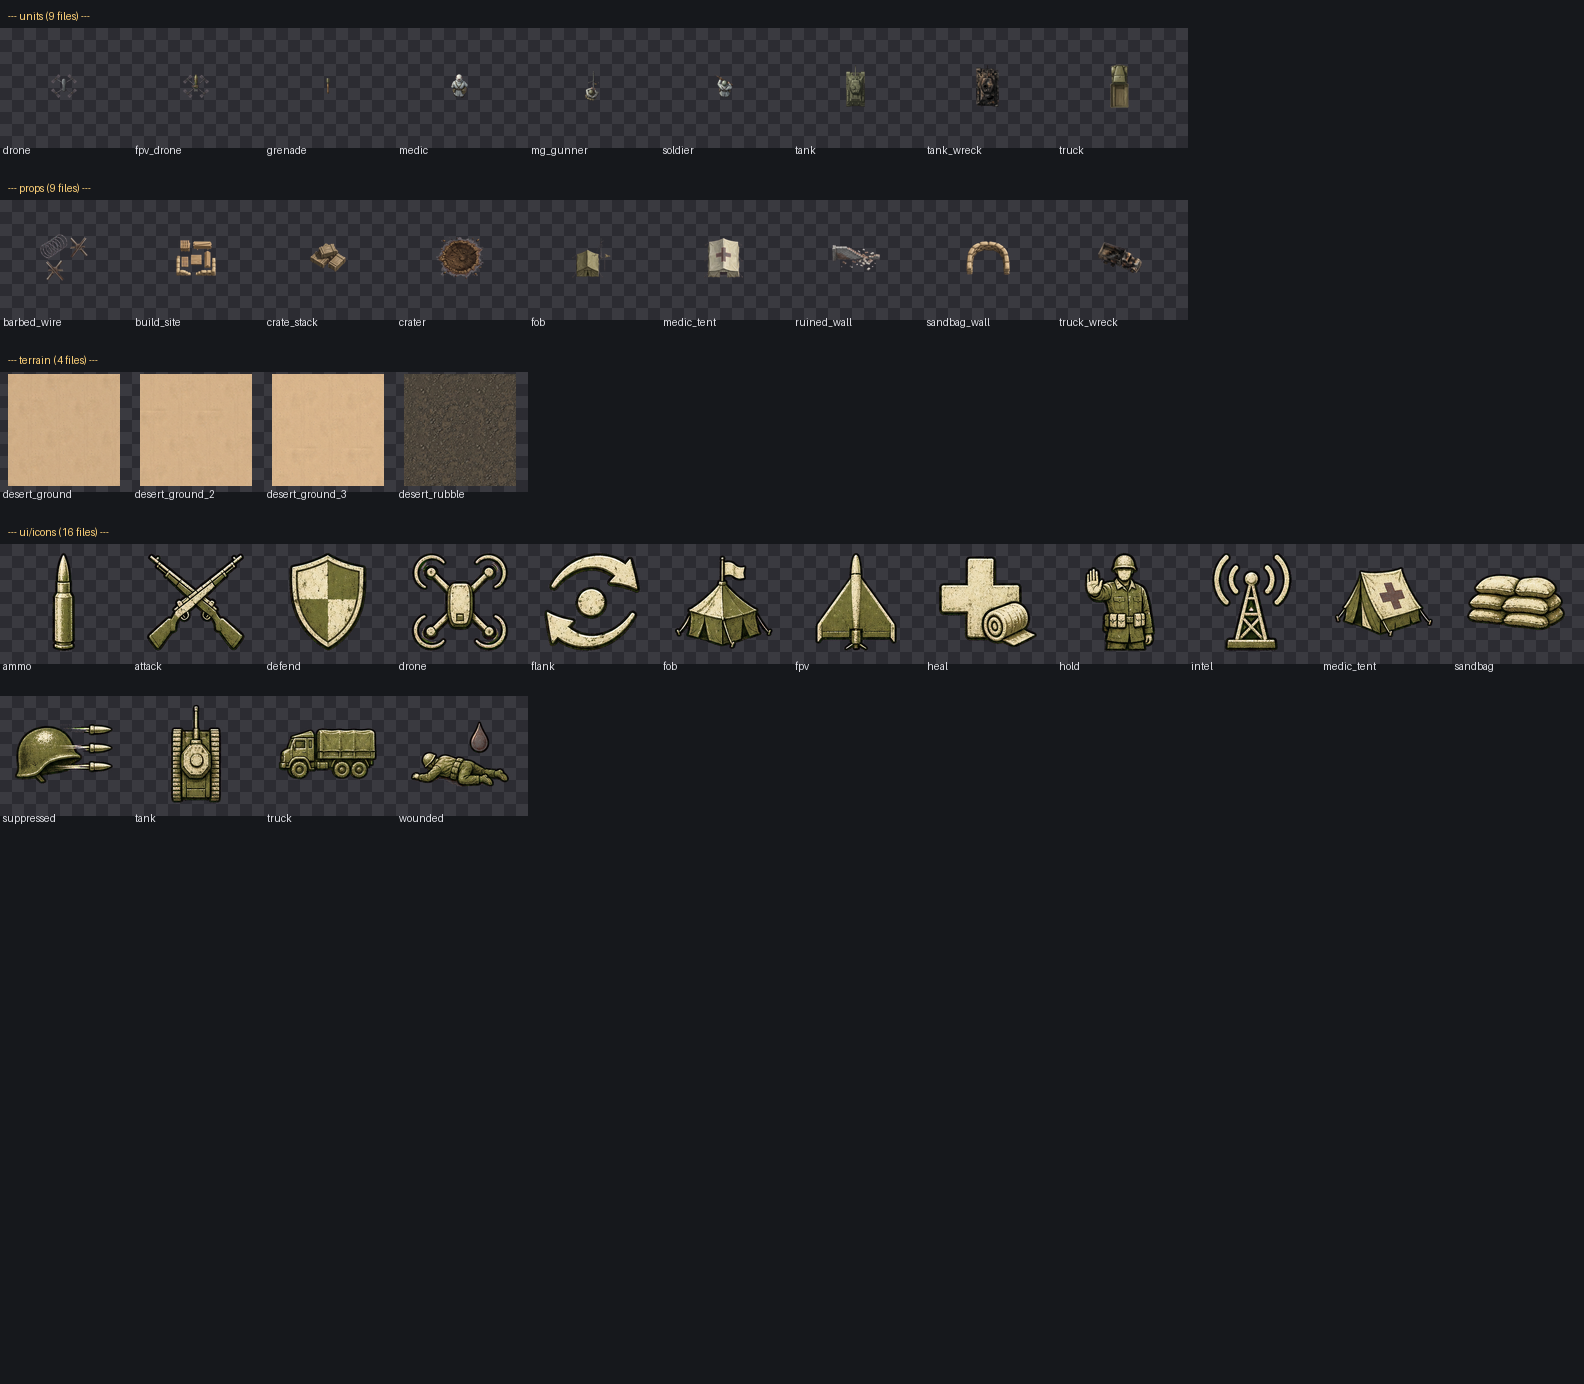
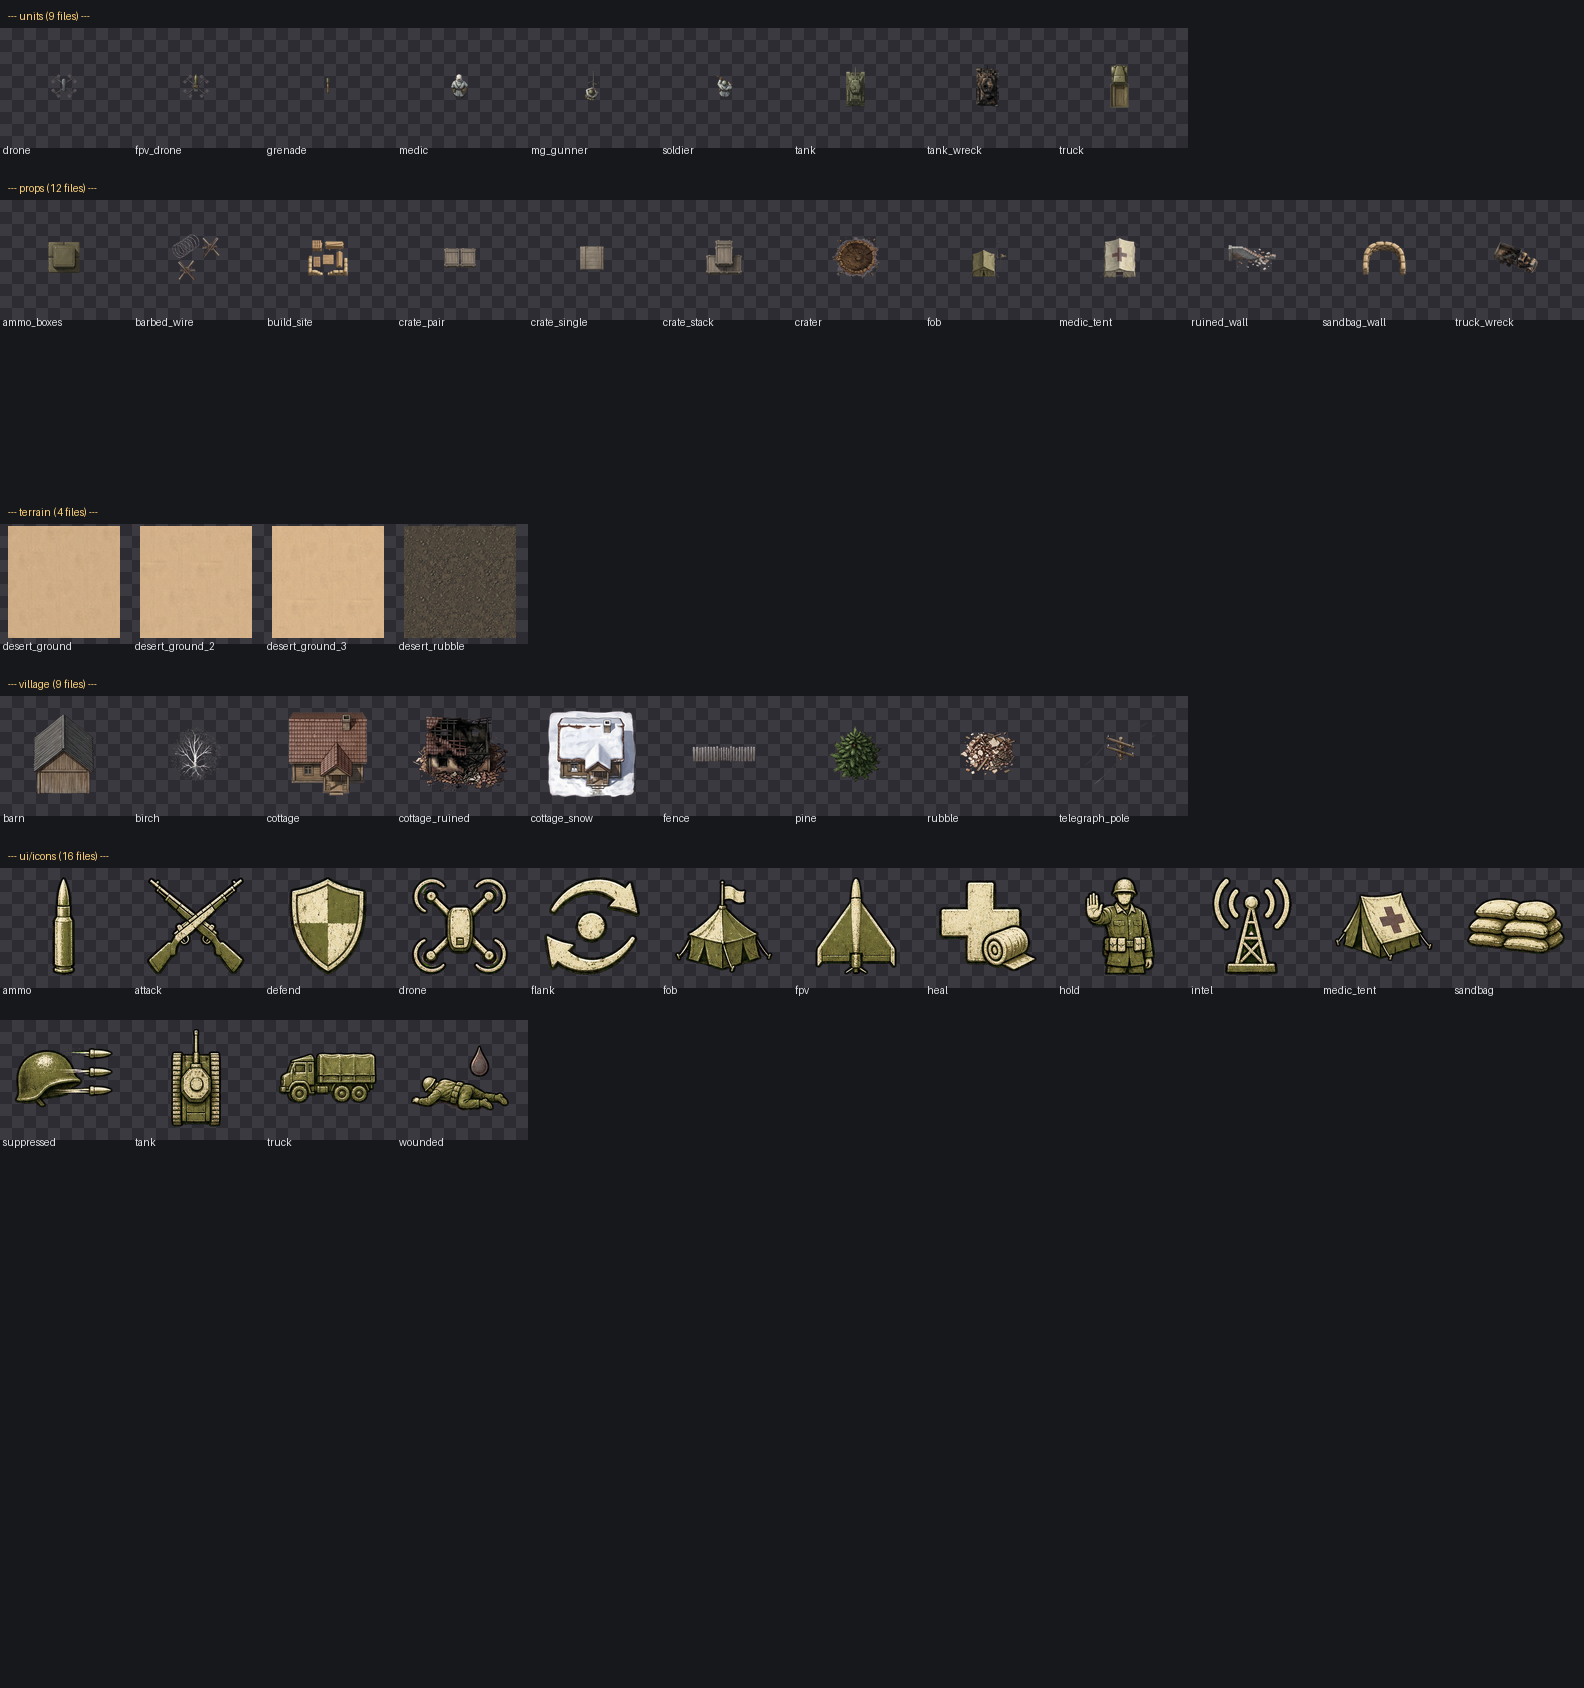
素材 M5：村落与植被 + 木箱重出 + 弹药箱
补齐预告片里最显眼的一块缺口（村落建筑），并修掉上一版木箱上的红划痕：

- assets/village/（9 件，含 _hd/ 原图）：
  cottage_snow（积雪红顶木屋）/ cottage（无雪）/ cottage_ruined（烧毁坍塌）/
  barn（木板谷仓）/ fence（带小门的栅栏段）/ rubble（建筑废墟堆）/
  birch（白桦）/ pine（松树）/ telegraph_pole（电线杆，含细电线）。
  建筑 80~96px、树木 52~56px——比一格（32px）大得多，是地图装饰而非格子障碍，
  尺寸按「视觉合理」出，未强行塞进一格。
- assets/props/：crate_stack 重出（旧版带红划痕），新增 crate_pair / crate_single /
  ammo_boxes。木箱与弹药箱按格子尺度出（24~36px）。
- tools/promote_assets.py：新增 13 条出图规则；
  tools/make_previews.py：验收图按**实际宽度自适应换行**（建筑比一格宽得多，
  原来「一格摆一个」会互相压住），并新增 VILLAGE / CRATES 两段。
- 生成源与拆图中间产物：sheets/{village_v1,crates_v1}.png、derived/{village_v1,crates_v1}/。
  拆图残留洋红实测 0.00%（check_village_crates.png 里逐张标注）。

Changed region(s): [[0.0, 0.3418, 1.0, 0.6835], [0.0, 0.0311, 1.0, 0.3107], [0.0, 0.0, 0.0619, 0.0311]]

diff --git a/assets/_source/tools/make_previews.py b/assets/_source/tools/make_previews.py
@@ -40,6 +40,25 @@ PROPS_SCALE_ROW = [
     ("props/barbed_wire.png", "barbed_wire"),
 ]
 
+VILLAGE_SCALE_ROW = [
+    ("village/cottage_snow.png", "cottage_snow"),
+    ("village/cottage.png", "cottage"),
+    ("village/cottage_ruined.png", "cottage_ruined"),
+    ("village/barn.png", "barn"),
+    ("village/fence.png", "fence"),
+    ("village/rubble.png", "rubble"),
+    ("village/birch.png", "birch"),
+    ("village/pine.png", "pine"),
+    ("village/telegraph_pole.png", "telegraph_pole"),
+]
+
+EXTRA_SCALE_ROW = [
+    ("props/crate_stack.png", "crate_stack"),
+    ("props/crate_pair.png", "crate_pair"),
+    ("props/crate_single.png", "crate_single"),
+    ("props/ammo_boxes.png", "ammo_boxes"),
+]
+
 
 def tiled(tile_path: str, w: int, h: int) -> Image.Image:
     tile = Image.open(tile_path).convert("RGBA")
@@ -50,27 +69,61 @@ def tiled(tile_path: str, w: int, h: int) -> Image.Image:
     return out
 
 
-def scale_check(theme: str, ground: str, rows: list[tuple[str, str]], path: str) -> None:
+def scale_check(theme: str, ground: str, sections: list[tuple[str, list]], path: str) -> None:
+    """把每个分类的单位/道具按游戏 1:1 尺度贴在地形上，整幅放大 4 倍显示。
+
+    建筑 88~96 px、树木 56 px，都比一格（32 px）大得多，所以这里按**实际宽度自适应换行**，
+    而不是一格摆一个——否则预览图上会互相压在一起。
+    """
     zoom = 4
-    cell = 32 * zoom  # 一格 = 32 px，放大 4 倍
     pad = 24
-    width = cell * 9 + pad * 2
-    height = pad * 2 + (cell + 26) * 2 + 60
+    max_w = 1600
+
+    # 先量好每件东西的显示尺寸，再逐行排布
+    plan: list[tuple[str, list[tuple[str, str, tuple[int, int]]], list[list]]] = []
+    for label, items in sections:
+        sized = []
+        for rel, name in items:
+            img = Image.open(os.path.join(ASSETS, rel))
+            sized.append((rel, name, (img.width * zoom, img.height * zoom)))
+        lines: list[list] = []
+        line: list = []
+        line_w = 0
+        for item in sized:
+            w = item[2][0] + 28
+            if line and line_w + w > max_w - pad * 2:
+                lines.append(line)
+                line, line_w = [], 0
+            line.append(item)
+            line_w += w
+        if line:
+            lines.append(line)
+        plan.append((label, sized, lines))
+
+    width = max_w
+    height = pad * 2
+    for label, _sized, lines in plan:
+        height += 30
+        for line in lines:
+            height += max(i[2][1] for i in line) + 26
     canvas = tiled(os.path.join(ASSETS, ground), width, height).convert("RGB")
     canvas = Image.blend(canvas, Image.new("RGB", canvas.size, (10, 12, 16)), 0.25)
     draw = ImageDraw.Draw(canvas)
 
-    y = pad + 46
-    for label, items in (("UNITS (game scale 1:1, shown at 4x)", rows[0]), ("PROPS (game scale 1:1, shown at 4x)", rows[1])):
-        draw.text((pad, y - 34), f"{label}   theme={theme}   cell=32px @ {zoom}x", fill=(255, 232, 150))
-        x = pad + (cell - 32) // 2
-        for rel, name in items:
-            img = Image.open(os.path.join(ASSETS, rel)).convert("RGBA")
-            big = img.resize((img.width * zoom, img.height * zoom), Image.LANCZOS)
-            canvas.paste(big, (x + (64 - big.width) // 2, y + (cell - big.height) // 2), big)
-            draw.text((x + 2, y + cell + 4), name, fill=(236, 236, 240))
-            x += cell
-        y += cell + 58
+    y = pad
+    for label, _sized, lines in plan:
+        draw.text((pad, y), f"{label}   theme={theme}   cell=32px @ {zoom}x", fill=(255, 232, 150))
+        y += 30
+        for line in lines:
+            x = pad
+            line_h = max(i[2][1] for i in line)
+            for rel, name, (w, h) in line:
+                img = Image.open(os.path.join(ASSETS, rel)).convert("RGBA")
+                big = img.resize((w, h), Image.LANCZOS)
+                canvas.paste(big, (x, y + (line_h - h) // 2), big)
+                draw.text((x + 2, y + line_h + 4), name, fill=(236, 236, 240))
+                x += w + 28
+            y += line_h + 26
 
     canvas.save(path)
     print("wrote", path, canvas.size)
@@ -81,6 +134,7 @@ def overview(path: str) -> None:
         ("units", sorted(glob.glob(os.path.join(ASSETS, "units", "*.png")))),
         ("props", sorted(glob.glob(os.path.join(ASSETS, "props", "*.png")))),
         ("terrain", sorted(glob.glob(os.path.join(ASSETS, "terrain", "*.png")))[:4]),
+        ("village", sorted(glob.glob(os.path.join(ASSETS, "village", "*.png")))),
         ("ui/icons", sorted(glob.glob(os.path.join(ASSETS, "ui", "icons", "*.png")))),
     ]
     cell = 132
@@ -116,16 +170,22 @@ def overview(path: str) -> None:
 
 
 if __name__ == "__main__":
+    sections = [
+        ("UNITS (game scale 1:1, shown at 4x)", UNITS_SCALE_ROW),
+        ("PROPS (game scale 1:1, shown at 4x)", PROPS_SCALE_ROW),
+        ("VILLAGE (game scale 1:1, shown at 4x)", VILLAGE_SCALE_ROW),
+        ("CRATES / AMMO (game scale 1:1, shown at 4x)", EXTRA_SCALE_ROW),
+    ]
     scale_check(
         "snow",
         "terrain/snow_ground.png",
-        [UNITS_SCALE_ROW, PROPS_SCALE_ROW],
+        sections,
         os.path.join(OUT, "pack_scale_snow.png"),
     )
     scale_check(
         "desert",
         "terrain/desert_ground.png",
-        [UNITS_SCALE_ROW, PROPS_SCALE_ROW],
+        sections,
         os.path.join(OUT, "pack_scale_desert.png"),
     )
     overview(os.path.join(OUT, "pack_overview.png"))

diff --git a/assets/_source/tools/promote_assets.py b/assets/_source/tools/promote_assets.py
@@ -43,6 +43,21 @@ ASSETS: list[tuple[str, str, int, str]] = [
     ("props_v1/props_v1_07.png", "props/truck_wreck.png", 44, "卡车残骸（断供）"),
     ("props_v1/props_v1_08.png", "props/crater.png", 48, "弹坑（装饰）"),
     ("props_v1/props_v1_09.png", "props/barbed_wire.png", 48, "铁丝网与拒马（装饰）"),
+    # ---- 木箱重出（旧版带红划痕）+ 弹药箱 ----
+    ("crates_v1/crates_v1_01.png", "props/crate_stack.png", 36, "木箱堆（三只，无标记）"),
+    ("crates_v1/crates_v1_02.png", "props/crate_pair.png", 32, "木箱两只"),
+    ("crates_v1/crates_v1_03.png", "props/crate_single.png", 24, "单只大木箱"),
+    ("crates_v1/crates_v1_04.png", "props/ammo_boxes.png", 32, "弹药箱四只"),
+    # ---- 村落与植被（雪地/沙漠通用的地图装饰）----
+    ("village_v1/village_v1_01.png", "village/cottage_snow.png", 88, "积雪红顶木屋"),
+    ("village_v1/village_v1_02.png", "village/cottage.png", 84, "红顶木屋（无雪）"),
+    ("village_v1/village_v1_03.png", "village/cottage_ruined.png", 96, "烧毁坍塌的木屋"),
+    ("village_v1/village_v1_04.png", "village/barn.png", 80, "木板谷仓"),
+    ("village_v1/village_v1_05.png", "village/fence.png", 64, "木栅栏段（带小门）"),
+    ("village_v1/village_v1_06.png", "village/rubble.png", 56, "建筑废墟堆"),
+    ("village_v1/village_v1_07.png", "village/birch.png", 56, "白桦树（俯瞰）"),
+    ("village_v1/village_v1_08.png", "village/pine.png", 56, "松树（俯瞰）"),
+    ("village_v1/village_v1_09.png", "village/telegraph_pole.png", 72, "电线杆（俯瞰）"),
 ]
 
 
